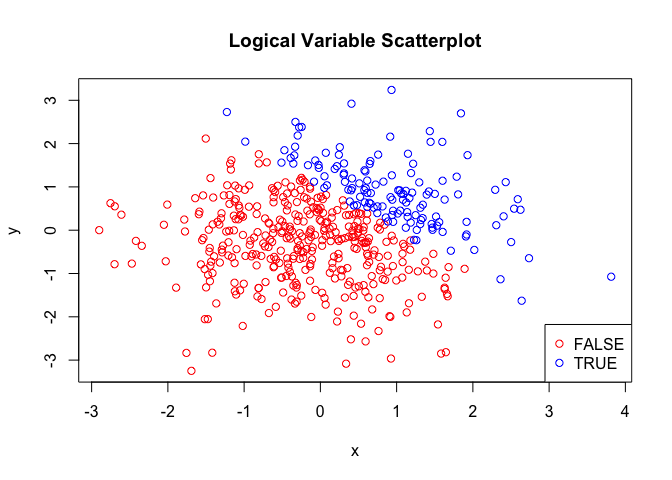
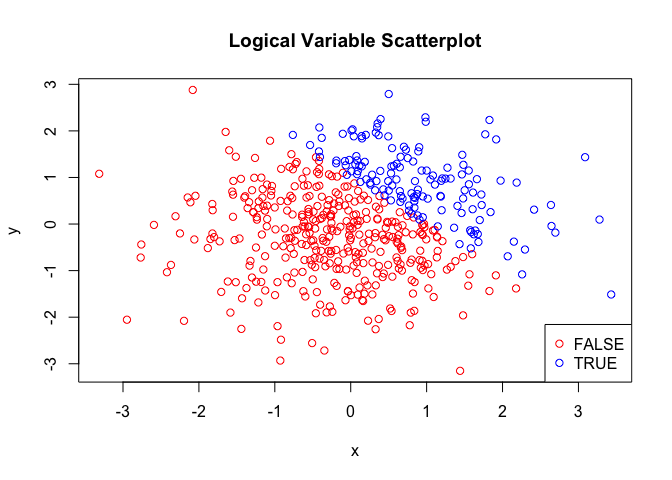
Comment on the color scales of the scatterplot and indentation.

diff --git a/p8105_hw1_dz2426.md b/p8105_hw1_dz2426.md
@@ -48,9 +48,9 @@ mean_char_vec = mean(pull(df_1, char_vec))
 mean_fac_vec = mean(pull(df_1, fac_vec))
 ```
 
-Comment 1: <br /> The mean of the random sample is -0.28. <br /> The
-mean of the logic vector is 0.5. <br /> The mean of the character vector
-is NA. <br /> The mean of the factor vector is NA. <br />
+Comment 1: <br /> The mean of the random sample is -0.17. <br /> The
+mean of the logic vector is 0.38. <br /> The mean of the character
+vector is NA. <br /> The mean of the factor vector is NA. <br />
 
 ``` r
 #Convert the logical, character, and factor vector to numeric variable
@@ -77,8 +77,8 @@ Here is the second code
 as.numeric(pull(df_1, log_vec)) * pull(df_1, random_samp)
 ```
 
-    ## [1] 0.49097248 0.51857918 0.07982578 0.00000000 0.00000000 0.00000000
-    ## [7] 0.00000000 0.53718810
+    ## [1] 0.0000000 0.0000000 0.0000000 1.3365848 0.0000000 0.8262221 0.0000000
+    ## [8] 1.0975479
 
 ``` r
 as.factor(pull(df_1, log_vec)) * pull(df_1, random_samp)
@@ -93,8 +93,8 @@ as.factor(pull(df_1, log_vec)) * pull(df_1, random_samp)
 as.numeric(as.factor(pull(df_1, log_vec))) * pull(df_1, random_samp)
 ```
 
-    ## [1]  0.9819450  1.0371584  0.1596516 -1.4371491 -0.8483893 -0.3902239
-    ## [7] -1.1923654  1.0743762
+    ## [1] -1.2872287 -0.3682401 -0.5010797  2.6731696 -0.8200557  1.6524441
+    ## [7] -1.6467774  2.1950958
 
 # Problem 2
 
@@ -122,15 +122,18 @@ prop_case = mean(pull(df_2, log_vec_2))
 ```
 
 Description of data frame: <br /> The size of the data set is 500 and 5.
-<br /> The mean, median and standard deviation of x are 0.06, 0.05 and
+<br /> The mean, median and standard deviation of x are 0.04, 0.05 and
 1.03, respectively. <br /> The proportion of cases for which x+y\>1 is
-0.27.
+0.28.
 
-\#\#Section 2
+## Section 2
+
+Below are three code chunks for the three yx scatterplots including
+logical, numerical and factor variables, respectively.
 
 ``` r
 with(df_2, plot(x, y, xlab = "x", ylab = "y", 
-                         main = "Logical Variable Scatterplot", type = "n"))
+                main = "Logical Variable Scatterplot", type = "n"))
 with(subset(df_2, log_vec_2 == 'FALSE'), points(x, y, col = 'red'))        
 with(subset(df_2, log_vec_2 == 'TRUE'), points(x, y, col = 'blue'))
 legend("bottomright", pch = 1, col = c("red","blue"), 
@@ -141,7 +144,7 @@ legend("bottomright", pch = 1, col = c("red","blue"),
 
 ``` r
 with(df_2, plot(x, y, xlab = "x", ylab = "y", 
-                         main = "Numeric Variable Scatterplot", type = "n"))
+                main = "Numeric Variable Scatterplot", type = "n"))
 with(subset(df_2, num_vec_2 == '0'), points(x, y, col = 'red'))        
 with(subset(df_2, num_vec_2 == '1'), points(x, y, col = 'blue'))
 legend("bottomright", pch = 1, col = c("red","blue"), 
@@ -152,7 +155,7 @@ legend("bottomright", pch = 1, col = c("red","blue"),
 
 ``` r
 with(df_2, plot(x, y, xlab = "x", ylab = "y", 
-                         main = "Factor Variable Scatterplot", type = "n"))
+                main = "Factor Variable Scatterplot", type = "n"))
 with(subset(df_2, fac_vec_2 == 'FALSE'), points(x, y, col = 'red'))        
 with(subset(df_2, fac_vec_2 == 'TRUE'), points(x, y, col = 'blue'))
 legend("bottomright", pch = 1, col = c("red","blue"), 
@@ -160,4 +163,8 @@ legend("bottomright", pch = 1, col = c("red","blue"),
 ```
 
 ![](p8105_hw1_dz2426_files/figure-gfm/yx_factor_scatterplot-1.png)<!-- -->
-Comment 3: <br />
+Comment 3: <br /> In line with the value of the proportion of cases for
+which x+y\>1, these three scatterplots clearly show that there is a much
+higher chance to obtain x+y\<1 (red dots). On each plot, it also shows
+that with higher x and y values (blue dots), it is more likely to get a
+‘TRUE’ result (x+y\>1).
